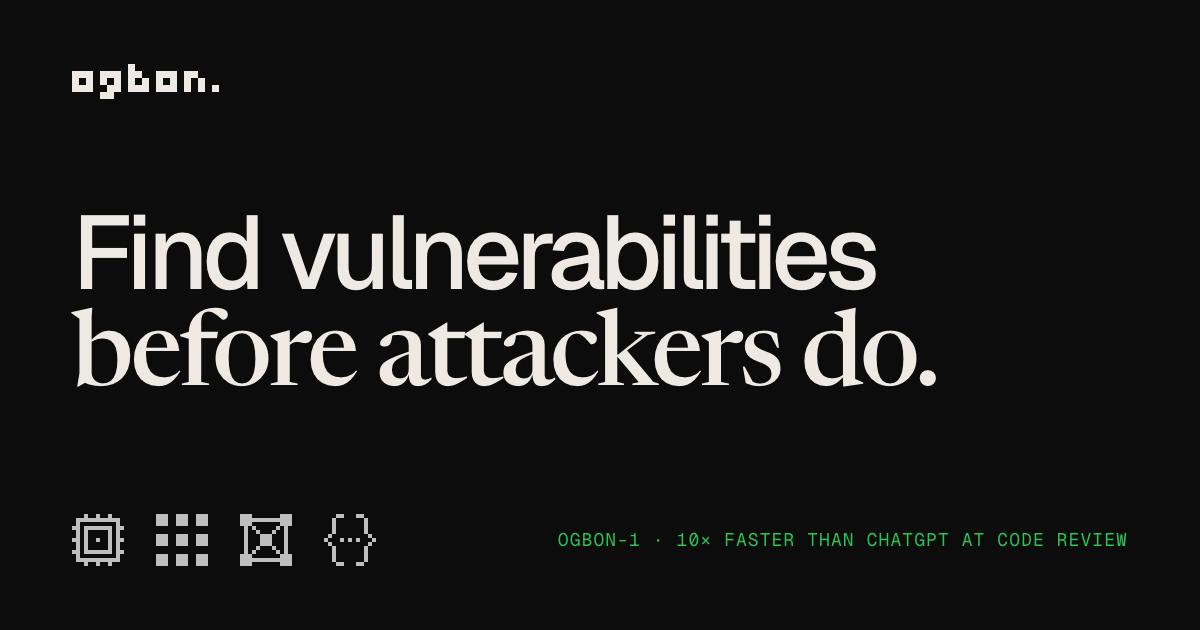
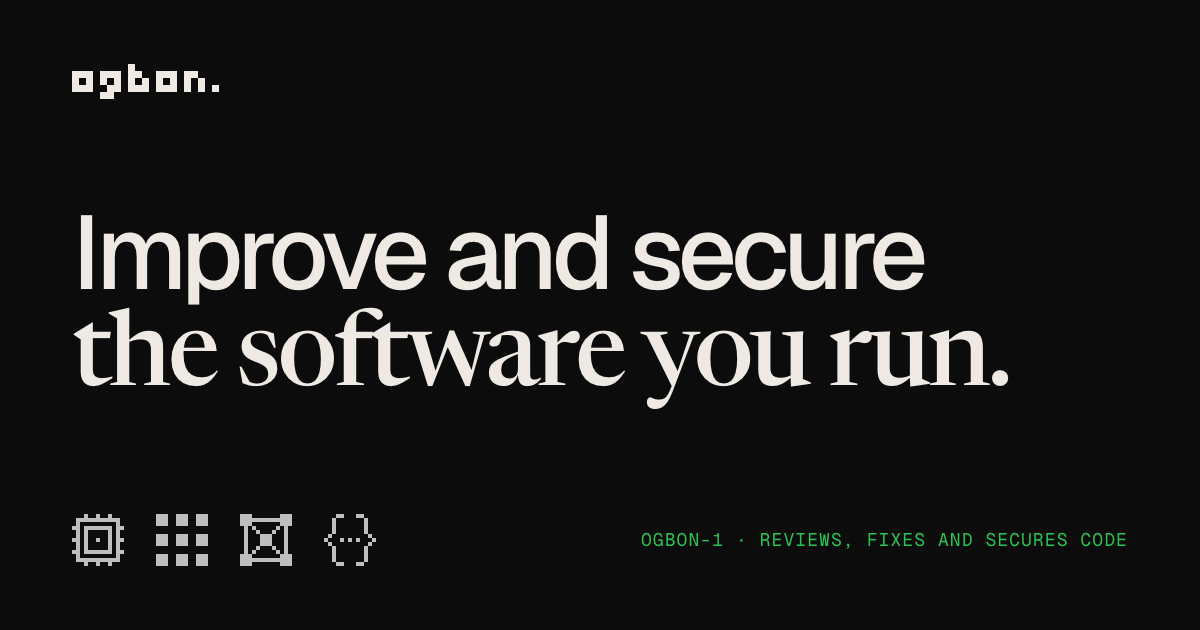
Focus the site on improving and securing existing software
Hero 'Improve and secure the software you run.'; lab section, ogbon-1 intro, Harness text,
API example and closing tagline restated around existing software. Research page intro,
focus chips and closing to match. Title, descriptions, manifest and share image updated.

Changed region(s): [[0.0617, 0.3317, 0.8633, 0.6635], [0.4625, 0.8444, 0.9558, 0.8746]]

diff --git a/index.html b/index.html
@@ -3,8 +3,8 @@
 <head>
   <meta charset="utf-8">
   <meta name="viewport" content="width=device-width, initial-scale=1">
-  <title>Ogbon · AI for code security</title>
-  <meta name="description" content="Ogbon is an applied AI research lab building faster, cheaper models for code security for enterprises in Africa. ogbon-1, a 30B model, reviews code and finds vulnerabilities 10x faster than ChatGPT. Use it through Ogbon Harness or our API.">
+  <title>Ogbon · Improve and secure existing software</title>
+  <meta name="description" content="Ogbon is an applied AI research lab. We focus models on improving and securing existing software. ogbon-1, a 30B model, reviews code, fixes bugs and finds vulnerabilities 10x faster than ChatGPT. Use it through Ogbon Harness or our API.">
   <meta name="robots" content="index, follow, max-image-preview:large">
   <link rel="canonical" href="https://ogbon.com/">
   <meta name="theme-color" content="#0B0C0B">
@@ -20,25 +20,25 @@
   <meta property="og:site_name" content="Ogbon">
   <meta property="og:locale" content="en_GB">
   <meta property="og:url" content="https://ogbon.com/">
-  <meta property="og:title" content="Ogbon · AI for code security">
-  <meta property="og:description" content="Ogbon is an applied AI research lab building faster, cheaper models for code security for enterprises in Africa. ogbon-1, a 30B model, reviews code and finds vulnerabilities 10x faster than ChatGPT. Use it through Ogbon Harness or our API.">
-  <meta property="og:image" content="https://ogbon.com/assets/og.png?v=6">
+  <meta property="og:title" content="Ogbon · Improve and secure existing software">
+  <meta property="og:description" content="Ogbon is an applied AI research lab. We focus models on improving and securing existing software. ogbon-1, a 30B model, reviews code, fixes bugs and finds vulnerabilities 10x faster than ChatGPT. Use it through Ogbon Harness or our API.">
+  <meta property="og:image" content="https://ogbon.com/assets/og.png?v=7">
   <meta property="og:image:type" content="image/png">
   <meta property="og:image:width" content="1200">
   <meta property="og:image:height" content="630">
-  <meta property="og:image:alt" content="Ogbon: Find vulnerabilities before attackers do.">
+  <meta property="og:image:alt" content="Ogbon: Improve and secure the software you run.">
 
   <!-- Twitter / X -->
   <meta name="twitter:card" content="summary_large_image">
-  <meta name="twitter:title" content="Ogbon · AI for code security">
-  <meta name="twitter:description" content="Ogbon is an applied AI research lab building faster, cheaper models for code security for enterprises in Africa. ogbon-1, a 30B model, reviews code and finds vulnerabilities 10x faster than ChatGPT. Use it through Ogbon Harness or our API.">
-  <meta name="twitter:image" content="https://ogbon.com/assets/og.png?v=6">
-  <meta name="twitter:image:alt" content="Ogbon: Find vulnerabilities before attackers do.">
+  <meta name="twitter:title" content="Ogbon · Improve and secure existing software">
+  <meta name="twitter:description" content="Ogbon is an applied AI research lab. We focus models on improving and securing existing software. ogbon-1, a 30B model, reviews code, fixes bugs and finds vulnerabilities 10x faster than ChatGPT. Use it through Ogbon Harness or our API.">
+  <meta name="twitter:image" content="https://ogbon.com/assets/og.png?v=7">
+  <meta name="twitter:image:alt" content="Ogbon: Improve and secure the software you run.">
 
   <link rel="preconnect" href="https://fonts.googleapis.com">
   <link rel="preconnect" href="https://fonts.gstatic.com" crossorigin>
   <link rel="stylesheet" href="https://fonts.googleapis.com/css2?family=Geist:wght@400;500&family=Geist+Mono:wght@400&family=Newsreader:opsz,wght@6..72,400;6..72,500&display=swap">
-  <link rel="stylesheet" href="styles.css?v=20261112-2">
+  <link rel="stylesheet" href="styles.css?v=20261113-1">
   <script>document.documentElement.classList.add("js")</script>
   <script type="application/ld+json">
   {
@@ -51,14 +51,14 @@
         "url": "https://ogbon.com/",
         "logo": { "@type": "ImageObject", "url": "https://ogbon.com/assets/icons/icon-512.png", "width": 512, "height": 512 },
         "image": "https://ogbon.com/assets/og.png",
-        "slogan": "Find vulnerabilities before attackers do.",
-        "description": "Ogbon is an applied AI research lab building faster, cheaper models for code security for enterprises in Africa. ogbon-1, a 30B model, reviews code and finds vulnerabilities 10x faster than ChatGPT. Use it through Ogbon Harness or our API.",
+        "slogan": "Improve and secure the software you run.",
+        "description": "Ogbon is an applied AI research lab. We focus models on improving and securing existing software. ogbon-1, a 30B model, reviews code, fixes bugs and finds vulnerabilities 10x faster than ChatGPT. Use it through Ogbon Harness or our API.",
         "email": "hello@ogbon.com",
         "location": [
           { "@type": "Place", "address": { "@type": "PostalAddress", "addressLocality": "Lagos", "addressCountry": "NG" } },
           { "@type": "Place", "address": { "@type": "PostalAddress", "addressLocality": "London", "addressCountry": "GB" } }
         ],
-        "knowsAbout": ["Code review models", "Security vulnerability detection", "Real-time inference", "Efficient inference", "GPU kernels", "Quantisation", "Distillation", "Edge AI", "Physical AI"]
+        "knowsAbout": ["Software maintenance", "Code review", "Bug fixing", "Security vulnerability detection", "Real-time inference", "Efficient inference", "GPU kernels", "Quantisation", "Distillation", "Edge AI", "Physical AI"]
       },
       {
         "@type": "WebSite",
@@ -72,8 +72,8 @@
         "@type": "WebPage",
         "@id": "https://ogbon.com/#webpage",
         "url": "https://ogbon.com/",
-        "name": "Ogbon · AI for code security",
-        "description": "Ogbon is an applied AI research lab building faster, cheaper models for code security for enterprises in Africa. ogbon-1, a 30B model, reviews code and finds vulnerabilities 10x faster than ChatGPT. Use it through Ogbon Harness or our API.",
+        "name": "Ogbon · Improve and secure existing software",
+        "description": "Ogbon is an applied AI research lab. We focus models on improving and securing existing software. ogbon-1, a 30B model, reviews code, fixes bugs and finds vulnerabilities 10x faster than ChatGPT. Use it through Ogbon Harness or our API.",
         "inLanguage": "en",
         "isPartOf": { "@id": "https://ogbon.com/#website" },
         "about": { "@id": "https://ogbon.com/#organization" },
@@ -108,10 +108,10 @@
       <div class="hero-inner">
         <div class="hero-copy">
           <h1 class="hero-title">
-            <span class="line sans reveal">Find vulnerabilities</span>
-            <span class="line serif reveal">before attackers do.</span>
+            <span class="line sans reveal">Improve and secure</span>
+            <span class="line serif reveal">the software you run.</span>
           </h1>
-          <p class="hero-sub reveal">Ogbon is an applied AI research lab. We build fast, low&#8209;cost models for code security, for enterprises in Africa. Our first, ogbon&#8209;1, reviews code and finds vulnerabilities 10× faster than&nbsp;ChatGPT.</p>
+          <p class="hero-sub reveal">Ogbon is an applied AI research lab. We focus models on improving and securing existing software. Our first, ogbon&#8209;1, reviews code, fixes bugs and finds vulnerabilities 10× faster than&nbsp;ChatGPT.</p>
           <div class="hero-actions reveal">
             <a class="pill pill-dark" href="https://my.ogbon.com">Get started</a>
             <a class="pill pill-line" href="#ogbon-1">Meet ogbon&#8209;1</a>
@@ -129,27 +129,27 @@
         <div class="split-head">
           <p class="label reveal">01 / The lab</p>
           <div>
-            <h2 class="h2 reveal" id="lab-title">Frontier AI, applied to <em>security.</em></h2>
+            <h2 class="h2 reveal" id="lab-title">Models for software <em>that already&nbsp;exists.</em></h2>
             <div class="vgpu-intro reveal">
-              <p>Enterprises in Africa face the same attacks as everyone else, with smaller security teams and higher compute costs. We take frontier models and focus them on one job: finding and fixing vulnerabilities in your code, faster and for&nbsp;less.</p>
+              <p>Most software work is on code that is already written: reviewing changes, fixing bugs, patching and closing vulnerabilities. We focus models on that work, so enterprises in Africa can do it faster and for&nbsp;less.</p>
             </div>
           </div>
         </div>
         <ul class="uses uses-dark">
           <li class="use reveal">
             <span class="use-icon" style="--g:url(assets/glyphs/cores.svg)"></span>
-            <h3>Faster</h3>
-            <p>10× faster than ChatGPT at code&nbsp;review.</p>
+            <h3>Improve</h3>
+            <p>Reviews code, fixes bugs, adds&nbsp;tests.</p>
           </li>
           <li class="use reveal">
             <span class="use-icon" style="--g:url(assets/glyphs/memory.svg)"></span>
-            <h3>Cheaper</h3>
-            <p>3× fewer tokens, on one&nbsp;GPU.</p>
+            <h3>Secure</h3>
+            <p>Finds vulnerabilities, writes the&nbsp;patch.</p>
           </li>
           <li class="use reveal">
             <span class="use-icon" style="--g:url(assets/glyphs/compiler.svg)"></span>
-            <h3>Focused</h3>
-            <p>Trained for vulnerabilities and code&nbsp;review.</p>
+            <h3>Faster, cheaper</h3>
+            <p>10× the speed, 3× fewer&nbsp;tokens.</p>
           </li>
         </ul>
       </div>
@@ -163,7 +163,7 @@
           <div>
             <h2 class="h2 reveal" id="model-title">30B parameters, <em>one&nbsp;GPU.</em></h2>
             <div class="careers-intro reveal">
-              <p>ogbon&#8209;1 reviews code, finds security vulnerabilities, fixes bugs and writes patches. It is 22 times smaller than open&#8209;weight frontier models, so it runs on your own servers or&nbsp;ours.</p>
+              <p>ogbon&#8209;1 is our first model for existing software. It reviews code, fixes bugs, writes patches and finds security vulnerabilities. It is 22 times smaller than open&#8209;weight frontier models, so it runs on your own servers or&nbsp;ours.</p>
             </div>
           </div>
         </div>
@@ -180,7 +180,7 @@
           </ul>
           <p class="modelcard-note">Speed and token use compared with ChatGPT on our internal code review and vulnerability tests. We will publish the full&nbsp;results.</p>
           <dl class="modelcard-rows">
-            <div><dt>Built for</dt><dd>Vulnerability detection, code review, bug fixes and&nbsp;patches</dd></div>
+            <div><dt>Built for</dt><dd>Code review, bug fixes, patches and vulnerability&nbsp;detection</dd></div>
             <div><dt>Use it through</dt><dd>Ogbon Harness or the Ogbon&nbsp;API</dd></div>
             <div><dt>Runs on</dt><dd>One GPU, on Ogbon Platform or your own&nbsp;servers</dd></div>
           </dl>
@@ -200,7 +200,7 @@
           <div>
             <h2 class="h2 reveal" id="harness-title">Run the harness, <em>or call the&nbsp;API.</em></h2>
             <div class="vgpu-intro reveal">
-              <p>Ogbon Harness is a desktop app for your code. Open a project folder and ask it to find vulnerabilities, fix a bug, add tests or open a pull request. ogbon&#8209;1 edits the files and you review every&nbsp;change.</p>
+              <p>Ogbon Harness is a desktop app for your code. Open an existing project and ask it to review a change, fix a bug, add tests or find vulnerabilities. ogbon&#8209;1 edits the files and you review every&nbsp;change.</p>
             </div>
           </div>
         </div>
@@ -268,7 +268,7 @@ review = client.chat.completions.create(
     model=<span class="s">"ogbon-1"</span>,
     messages=[{
         <span class="s">"role"</span>: <span class="s">"user"</span>,
-        <span class="s">"content"</span>: <span class="s">"Review this diff for security vulnerabilities:\n"</span> + diff,
+        <span class="s">"content"</span>: <span class="s">"Review this diff for bugs and security vulnerabilities:\n"</span> + diff,
     }],
 )</code></pre>
         </div>
@@ -328,7 +328,7 @@ review = client.chat.completions.create(
         </div>
         <div class="closing-foot reveal">
           <p class="domain">OGBON.COM</p>
-          <p class="tagline">Faster, cheaper AI for code&nbsp;security.</p>
+          <p class="tagline">Models that improve and secure existing&nbsp;software.</p>
           <a class="mail" data-email href="#contact">Email us</a>
         </div>
       </div>

diff --git a/research.html b/research.html
@@ -4,7 +4,7 @@
   <meta charset="utf-8">
   <meta name="viewport" content="width=device-width, initial-scale=1">
   <title>Research · Ogbon</title>
-  <meta name="description" content="Ogbon’s research log: experiments on making inference fast and cheap enough for real time, with what worked, what didn’t, and the numbers behind both.">
+  <meta name="description" content="Ogbon’s research log. We focus models on improving and securing existing software, and these experiments are about running them cheaply: what worked, what didn’t, and the numbers behind both.">
   <meta name="robots" content="index, follow, max-image-preview:large">
   <link rel="canonical" href="https://ogbon.com/research.html">
   <meta name="theme-color" content="#0B0C0B">
@@ -16,13 +16,13 @@
   <meta property="og:site_name" content="Ogbon">
   <meta property="og:url" content="https://ogbon.com/research.html">
   <meta property="og:title" content="Research · Ogbon">
-  <meta property="og:description" content="Experiments on making inference fast and cheap enough for real time.">
+  <meta property="og:description" content="Experiments on running models that improve and secure existing software, cheaply.">
   <meta property="og:image" content="https://ogbon.com/assets/og.png">
   <meta name="twitter:card" content="summary_large_image">
   <link rel="preconnect" href="https://fonts.googleapis.com">
   <link rel="preconnect" href="https://fonts.gstatic.com" crossorigin>
   <link rel="stylesheet" href="https://fonts.googleapis.com/css2?family=Geist:wght@400;500&family=Geist+Mono:wght@400&family=Newsreader:opsz,wght@6..72,400;6..72,500&display=swap">
-  <link rel="stylesheet" href="styles.css?v=20261112-2">
+  <link rel="stylesheet" href="styles.css?v=20261113-1">
   <script>document.documentElement.classList.add("js")</script>
 </head>
 <body class="page">
@@ -49,11 +49,11 @@
       <div class="wrap">
         <p class="label reveal">Research</p>
         <h1 class="page-title reveal">Research <em>that ships.</em></h1>
-        <p class="page-intro reveal">One question: how do you make inference fast and cheap enough for real time? Here is everything we have run, with what worked, what didn’t, and the numbers behind&nbsp;both.</p>
+        <p class="page-intro reveal">We focus models on improving and securing existing software. To offer them at a low price they have to be cheap to run, so this log covers our serving experiments: what worked, what didn’t, and the numbers behind&nbsp;both.</p>
         <ul class="focus reveal" aria-label="Focus areas">
+          <li>Improving software</li>
+          <li>Securing software</li>
           <li>Efficient inference</li>
-          <li>Real&#8209;time runtimes</li>
-          <li>Custom kernels</li>
         </ul>
       </div>
     </section>
@@ -101,11 +101,11 @@
     <section class="dark closing" id="contact" aria-labelledby="closing-title">
       <div class="wrap narrow">
         <h2 class="closing-title reveal" id="closing-title">
-          <span class="sans">Try Ogbon</span>
+          <span class="sans">Try ogbon&#8209;1</span>
           <span class="serif">today.</span>
         </h2>
         <div class="closing-cta reveal">
-          <a class="pill pill-dark" href="https://my.ogbon.com">Try the platform</a>
+          <a class="pill pill-dark" href="https://my.ogbon.com">Get started</a>
           <a class="pill pill-line" data-email="Research" href="#contact">Talk to the lab</a>
         </div>
       </div>

diff --git a/tools/og.html b/tools/og.html
@@ -21,12 +21,12 @@
   <div class="top">
     <img class="logo" src="../assets/logo-light.svg" alt="">
   </div>
-  <h1><span class="sans">Find vulnerabilities</span><span class="serif">before attackers do.</span></h1>
+  <h1><span class="sans">Improve and secure</span><span class="serif">the software you run.</span></h1>
   <div class="bottom">
     <div class="glyphs">
       <img src="../assets/glyphs/chip.svg" alt=""><img src="../assets/glyphs/cores.svg" alt=""><img src="../assets/glyphs/network.svg" alt=""><img src="../assets/glyphs/compiler.svg" alt="">
     </div>
-    <span class="mono">ogbon-1 · 10× faster than ChatGPT at code review</span>
+    <span class="mono">ogbon-1 · Reviews, fixes and secures code</span>
   </div>
 </body>
 </html>

diff --git a/styles.css b/styles.css
@@ -177,7 +177,7 @@ em {
 .hero-title { display: flex; flex-direction: column; }
 .hero-title .line {
   display: block;
-  font-size: clamp(36px, 5vw, 62px);
+  font-size: clamp(36px, 5vw, 58px);
   line-height: 1;
   white-space: nowrap;
 }
